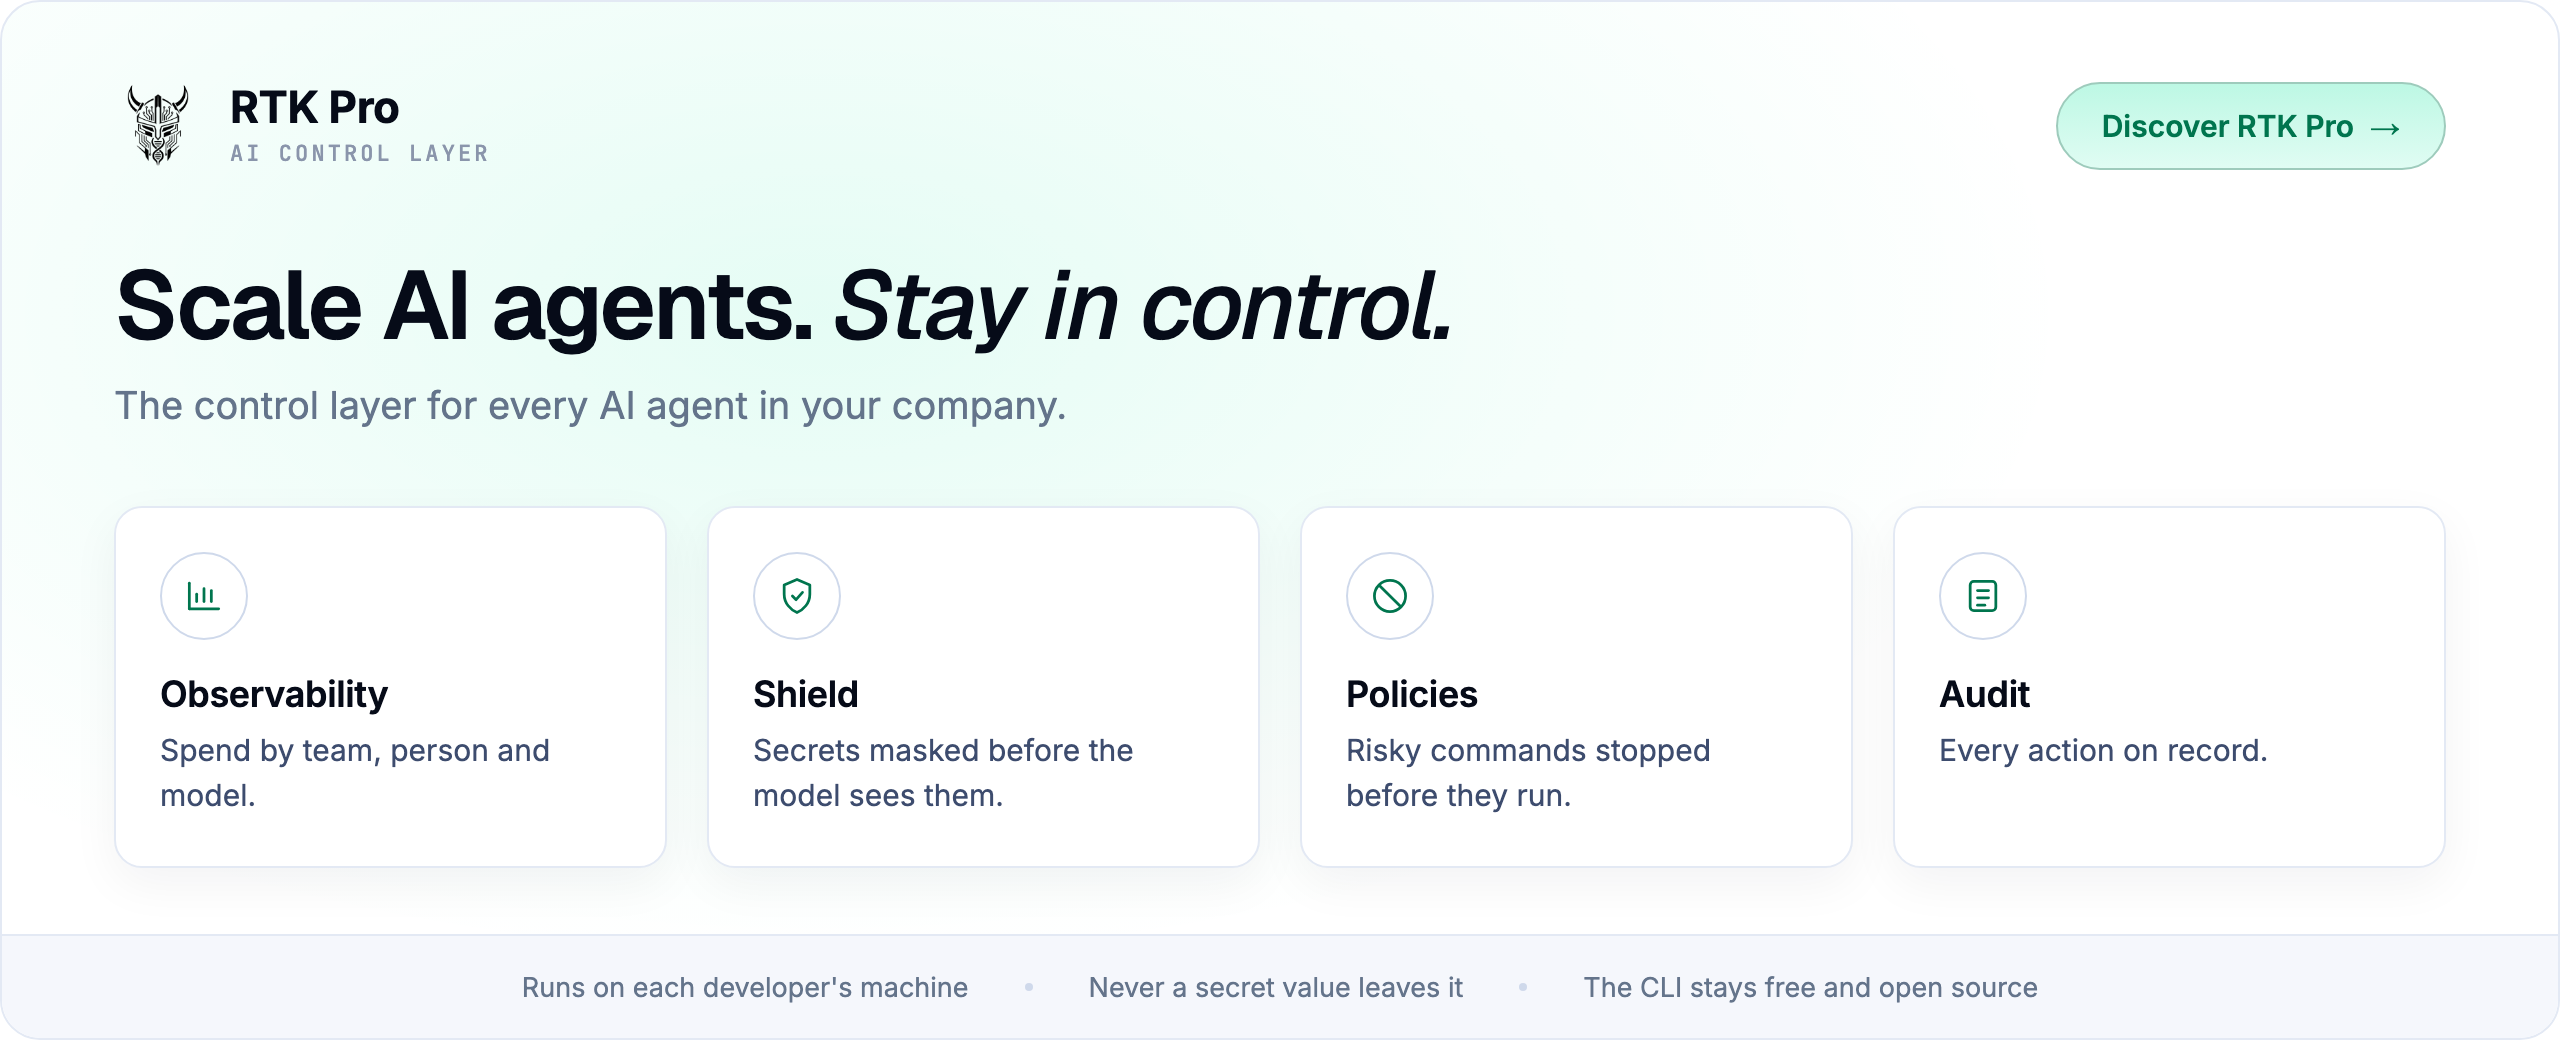
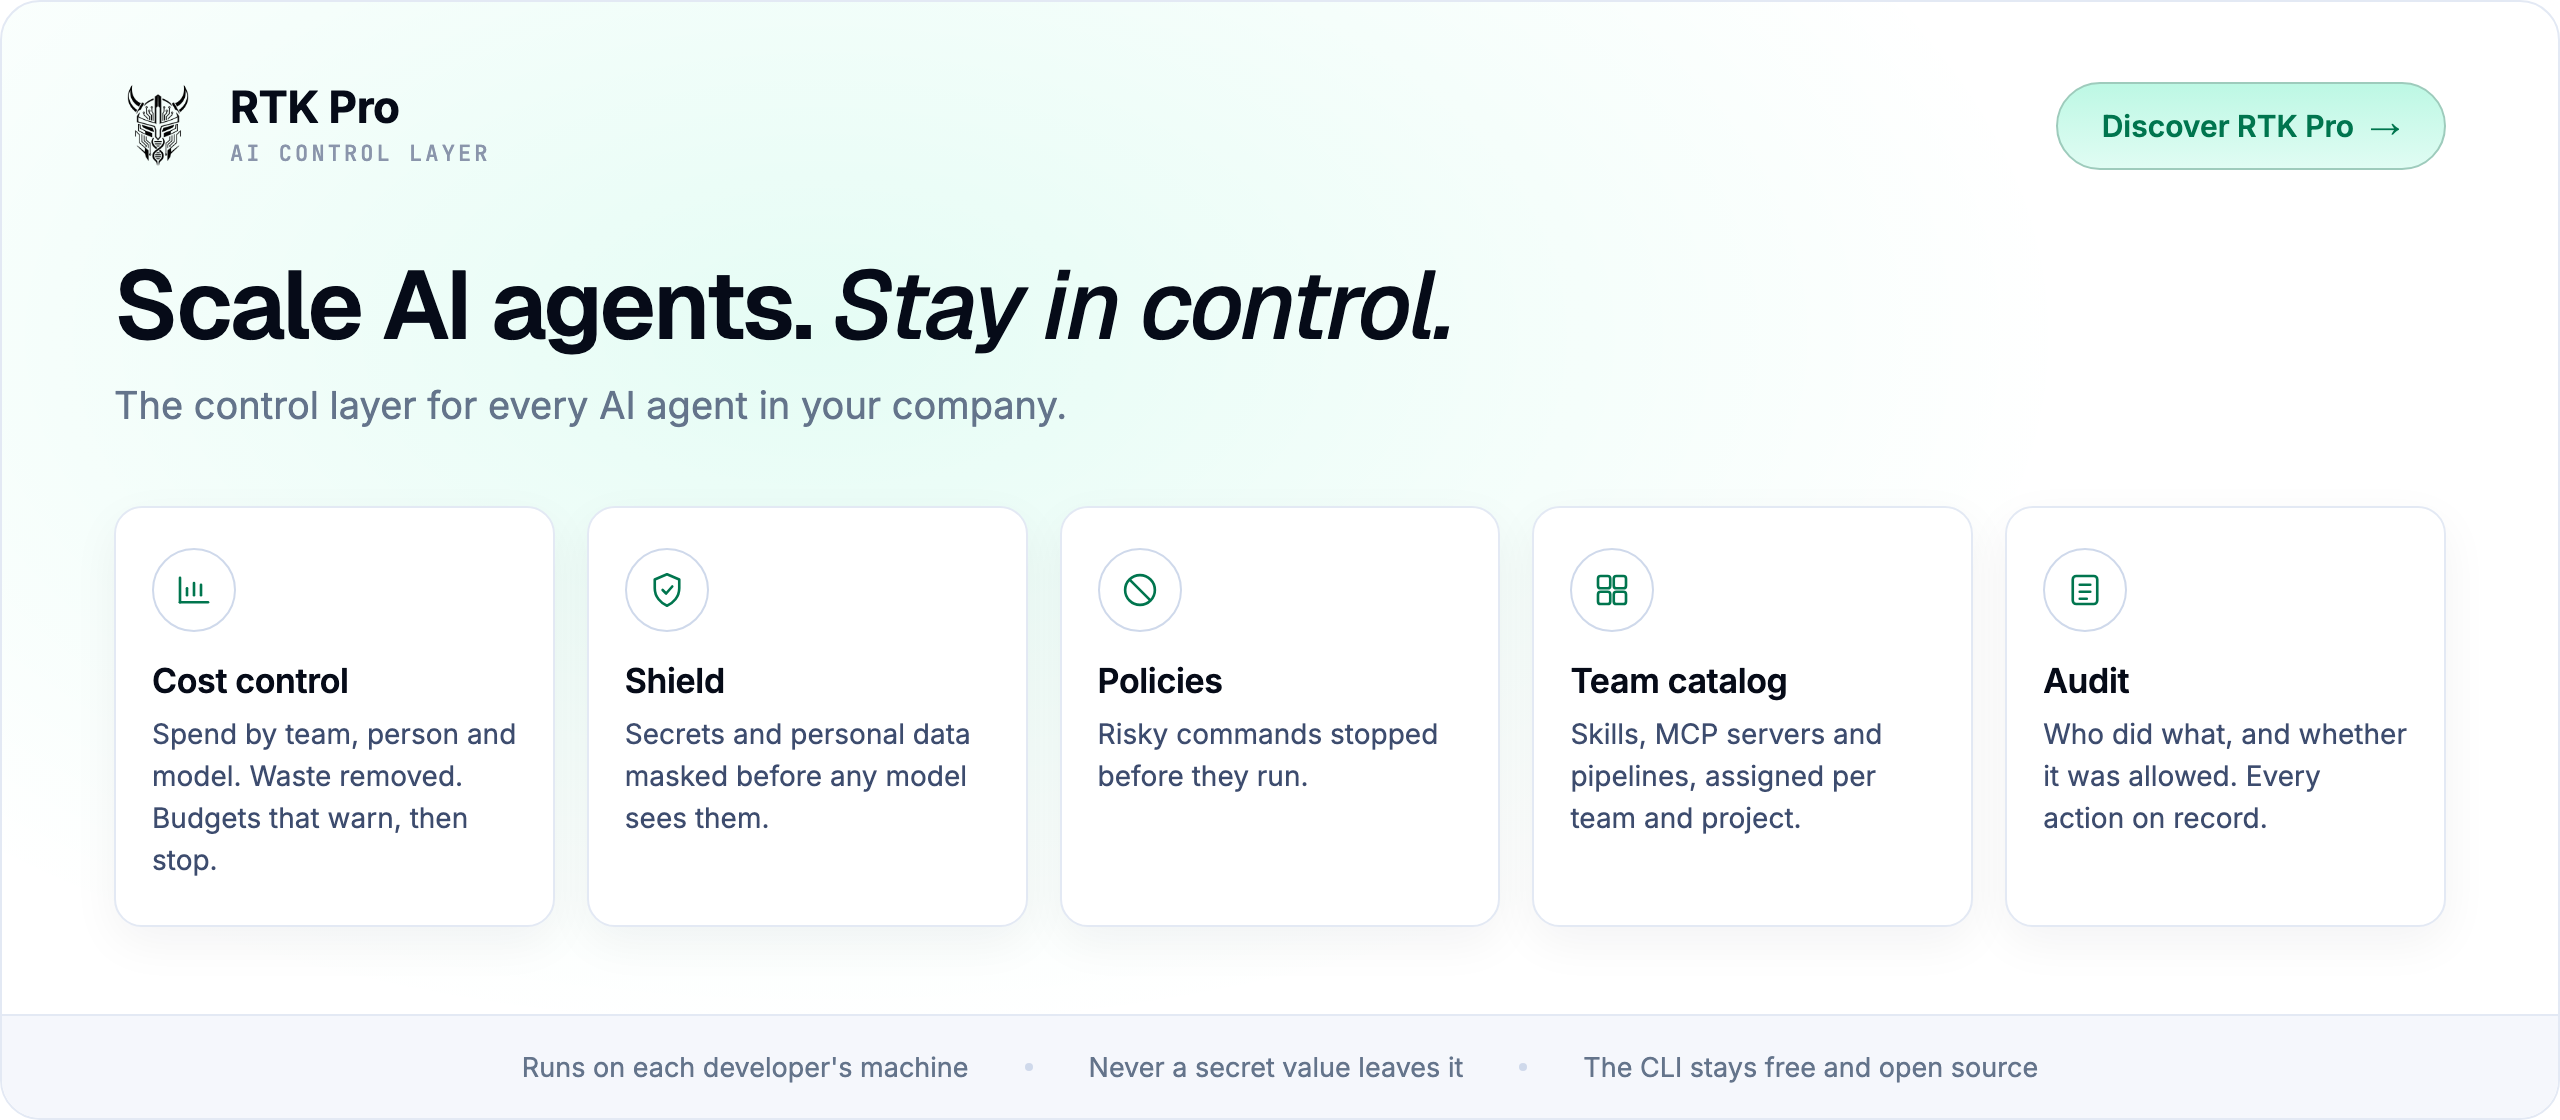
docs(readme): name the stakes in the RTK Pro section and show all five pillars
"Take back control" said nothing a CTO or CFO could picture. The heading
now names what they get: what agents cost, what they touch, who ran what.
The card and the lede gain the pillars the section was missing (cost
control with waste and budgets, personal data in the Shield, the team
catalog of skills, MCP servers and pipelines) next to policies and audit,
with the wording taken from the Pro site so both say the same thing.

diff --git a/.github/assets/src/rtk-pro.html b/.github/assets/src/rtk-pro.html
@@ -8,8 +8,8 @@
 <style>
 :root{--bg:#FFFFFF;--mist:#F5F7FC;--card:#FFFFFF;--border:#E3E9F4;--border-strong:#CFD9EB;--ink:#060B18;--text:#3D4C6E;--muted:#64748B;--dim:#8A95AB;--accent:#00E599;--deep:#00754E}
 *{margin:0;padding:0;box-sizing:border-box}
-html,body{width:1280px;height:520px;background:transparent}
-.card{position:relative;width:1280px;height:520px;border-radius:20px;overflow:hidden;background:var(--bg);border:1px solid var(--border);isolation:isolate;font-family:'Inter',sans-serif;color:var(--text)}
+html,body{width:1280px;height:560px;background:transparent}
+.card{position:relative;width:1280px;height:560px;border-radius:20px;overflow:hidden;background:var(--bg);border:1px solid var(--border);isolation:isolate;font-family:'Inter',sans-serif;color:var(--text)}
 .scene{position:absolute;inset:0;z-index:-1;background:radial-gradient(ellipse 70% 90% at 32% 30%,rgba(0,229,153,.10),rgba(0,229,153,0) 70%)}
 .top{position:absolute;left:56px;right:56px;top:40px;display:flex;align-items:center}
 .brand{display:flex;align-items:center;gap:14px}
@@ -20,12 +20,12 @@ html,body{width:1280px;height:520px;background:transparent}
 h1{position:absolute;left:56px;top:126px;font-family:'Geist',sans-serif;font-weight:600;font-size:48px;letter-spacing:-.025em;line-height:1.08;color:var(--ink)}
 h1 em{font-style:italic;font-weight:500}
 .sub{position:absolute;left:56px;top:190px;font-size:19px;color:var(--muted)}
-.row{position:absolute;left:56px;right:56px;top:252px;display:flex;gap:20px}
-.f{flex:1;background:var(--card);border:1px solid var(--border);border-radius:14px;padding:22px 22px 24px;box-shadow:0 8px 24px rgba(8,18,48,.05)}
-.ico{width:44px;height:44px;border-radius:50%;border:1px solid var(--border-strong);display:flex;align-items:center;justify-content:center;color:var(--deep)}
-.ico svg{width:22px;height:22px;fill:none;stroke:currentColor;stroke-width:1.5;stroke-linecap:round;stroke-linejoin:round}
-.f h3{margin-top:16px;font-weight:600;font-size:18px;color:var(--ink);letter-spacing:-.01em}
-.f p{margin-top:6px;font-size:15px;line-height:1.5;color:var(--text)}
+.row{position:absolute;left:56px;right:56px;top:252px;display:flex;gap:16px}
+.f{flex:1;background:var(--card);border:1px solid var(--border);border-radius:14px;padding:20px 18px 22px;box-shadow:0 8px 24px rgba(8,18,48,.05)}
+.ico{width:42px;height:42px;border-radius:50%;border:1px solid var(--border-strong);display:flex;align-items:center;justify-content:center;color:var(--deep)}
+.ico svg{width:21px;height:21px;fill:none;stroke:currentColor;stroke-width:1.5;stroke-linecap:round;stroke-linejoin:round}
+.f h3{margin-top:14px;font-weight:600;font-size:17px;color:var(--ink);letter-spacing:-.01em}
+.f p{margin-top:6px;font-size:14px;line-height:1.5;color:var(--text)}
 .foot{position:absolute;left:0;right:0;bottom:0;height:52px;background:var(--mist);border-top:1px solid var(--border);display:flex;align-items:center;justify-content:center;gap:28px;font-size:13.5px;color:var(--muted)}
 .foot i{width:4px;height:4px;border-radius:50%;background:var(--border-strong)}
 </style></head>
@@ -37,10 +37,11 @@ h1 em{font-style:italic;font-weight:500}
 <h1>Scale AI agents. <em>Stay in control.</em></h1>
 <p class="sub">The control layer for every AI agent in your company.</p>
 <div class="row">
- <div class="f"><div class="ico"><svg viewBox="0 0 24 24"><path d="M4 19V5"/><path d="M4 19h16"/><path d="M8 15v-4"/><path d="M12 15V8"/><path d="M16 15v-6"/></svg></div><h3>Observability</h3><p>Spend by team, person and model.</p></div>
- <div class="f"><div class="ico"><svg viewBox="0 0 24 24"><path d="M12 3l7 3v5c0 5-3.5 8.5-7 10-3.5-1.5-7-5-7-10V6l7-3z"/><path d="M9.5 12l2 2 3.5-4"/></svg></div><h3>Shield</h3><p>Secrets masked before the model sees them.</p></div>
+ <div class="f"><div class="ico"><svg viewBox="0 0 24 24"><path d="M4 19V5"/><path d="M4 19h16"/><path d="M8 15v-4"/><path d="M12 15V8"/><path d="M16 15v-6"/></svg></div><h3>Cost control</h3><p>Spend by team, person and model. Waste removed. Budgets that warn, then stop.</p></div>
+ <div class="f"><div class="ico"><svg viewBox="0 0 24 24"><path d="M12 3l7 3v5c0 5-3.5 8.5-7 10-3.5-1.5-7-5-7-10V6l7-3z"/><path d="M9.5 12l2 2 3.5-4"/></svg></div><h3>Shield</h3><p>Secrets and personal data masked before any model sees them.</p></div>
  <div class="f"><div class="ico"><svg viewBox="0 0 24 24"><circle cx="12" cy="12" r="8.5"/><path d="M6.5 6.5l11 11"/></svg></div><h3>Policies</h3><p>Risky commands stopped before they run.</p></div>
- <div class="f"><div class="ico"><svg viewBox="0 0 24 24"><rect x="5" y="4" width="14" height="16" rx="2"/><path d="M9 9h6"/><path d="M9 13h6"/><path d="M9 17h4"/></svg></div><h3>Audit</h3><p>Every action on record.</p></div>
+ <div class="f"><div class="ico"><svg viewBox="0 0 24 24"><rect x="4" y="4" width="7" height="7" rx="1.5"/><rect x="13" y="4" width="7" height="7" rx="1.5"/><rect x="4" y="13" width="7" height="7" rx="1.5"/><rect x="13" y="13" width="7" height="7" rx="1.5"/></svg></div><h3>Team catalog</h3><p>Skills, MCP servers and pipelines, assigned per team and project.</p></div>
+ <div class="f"><div class="ico"><svg viewBox="0 0 24 24"><rect x="5" y="4" width="14" height="16" rx="2"/><path d="M9 9h6"/><path d="M9 13h6"/><path d="M9 17h4"/></svg></div><h3>Audit</h3><p>Who did what, and whether it was allowed. Every action on record.</p></div>
 </div>
 <div class="foot"><span>Runs on each developer's machine</span><i></i><span>Never a secret value leaves it</span><i></i><span>The CLI stays free and open source</span></div>
 </div></body></html>

diff --git a/README.md b/README.md
@@ -50,7 +50,7 @@ Test runs, diffs, logs and builds are compressed before your agent reads them. 1
 Hand heavy reads to a cheaper model, compress more than bash, clean the API traffic without breaking the prompt cache. One agent-agnostic file: start from a built-in, install one someone shared, or write and share your own.
 The community built the bash compressor 85k developers starred. Now it is building pipelines: the best one listed today cuts total cost by 20.2% in its [author's benchmark](https://www.rtk-ai.app/pipelines/).
 
-**Running agents across a team?** [RTK Pro](https://pro.rtk-ai.app) is the control layer for every AI agent in your company: spend, secrets, policies, audit. [Take back control ↓](#running-agents-across-a-team-take-back-control)
+**Agents across the whole company?** [RTK Pro](https://pro.rtk-ai.app) is the control layer for every AI agent: costs, secrets and personal data, policies, team catalog, audit. [Discover RTK Pro ↓](#agents-across-the-whole-company-know-what-they-cost-what-they-touch-and-who-ran-what)
 
 <br>
 
@@ -195,13 +195,13 @@ Separate binary, separate licence (BUSL-1.1), its own `rtk-proxy-<target>` archi
 
 <br>
 
-## Running agents across a team? Take back control.
+## Agents across the whole company? Know what they cost, what they touch, and who ran what.
 
 <a href="https://pro.rtk-ai.app">
-  <img src=".github/assets/rtk-pro.png" alt="RTK Pro: scale AI agents, stay in control. The control layer for every AI agent in your company. Observability: spend by team, person and model. Shield: secrets masked before the model sees them. Policies: risky commands stopped before they run. Audit: every action on record. Runs on each developer's machine, never a secret value leaves it, the CLI stays free and open source.">
+  <img src=".github/assets/rtk-pro.png" alt="RTK Pro: scale AI agents, stay in control. The control layer for every AI agent in your company. Cost control: spend by team, person and model, waste removed, budgets that warn, then stop. Shield: secrets and personal data masked before any model sees them. Policies: risky commands stopped before they run. Team catalog: skills, MCP servers and pipelines, assigned per team and project. Audit: who did what, and whether it was allowed, every action on record. Runs on each developer's machine, never a secret value leaves it, the CLI stays free and open source.">
 </a>
 
-RTK runs on each developer's machine. **[RTK Pro](https://pro.rtk-ai.app)** connects them into one control layer: see what each team spends, keep secrets and risky commands from ever reaching a model, and prove who did what. The CLI stays free and open source.
+RTK runs on each developer's machine. **[RTK Pro](https://pro.rtk-ai.app)** connects them into one control layer for the whole company: **cost control** (spend by team, person and model, waste found and removed, budgets that warn, then stop), a **Shield** that masks secrets and personal data before any model sees them, **policies** that stop risky commands before they run, a **team catalog** of skills, MCP servers and pipelines assigned per team and project, and an **audit log** of who did what and whether it was allowed. Nothing changes for the developer, no secret value ever leaves the machine, and the CLI stays free and open source.
 
 <br>
 
